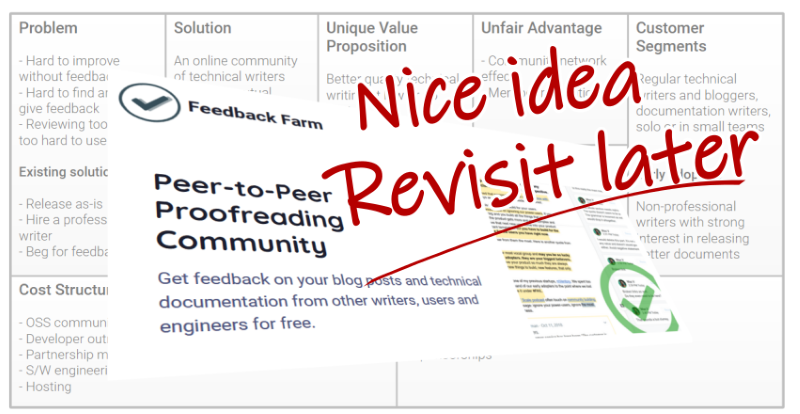
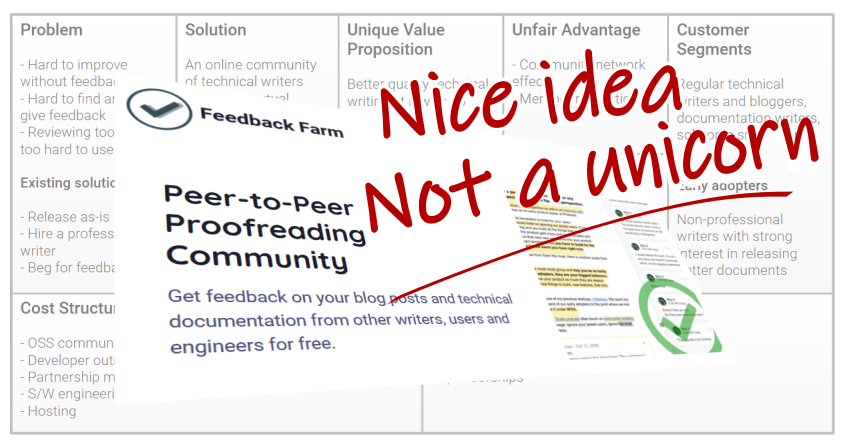
FF validation edits.

diff --git a/anatomy-of-failed-validation/readme.md b/anatomy-of-failed-validation/readme.md
@@ -3,7 +3,7 @@
 
 *There is plenty of good advice in books and on the Internet about how to validate an idea. The authors may convincingly tell you what to do, but skip the execution part as if it's not important. This post is a step-by-step walk through an idea validation process I did recently.*
 
-I got this idea about a proofreading community to help technical writers release better posts by giving each other feedback after I started posting on [Dev.To](https://dev.to/rimutaka). Better posts, more reactions, more readers, everyone wins, right?
+I started writing on [Dev.To](https://dev.to/rimutaka) only two months ago. Call me a beginner. One of the main challenges for me is finding someone to proofread my posts before I publish them. I want to know if the posts are interesting and easy to read and what can be improved. This is how I got this idea about a proofreading community where we would review each other's posts and exchange  feedback. Better posts, happier readers, more reactions, right?
 
 Maybe not so!
 
@@ -11,7 +11,7 @@ Most ideas sound good on the face of it. You need to look much deeper to know if
 
 My idea validation tool of choice is [Lean Canvas](https://leanstack.com). Ash Maurya, the Godfather of Idea Validation came up with that simple, but very powerful framework to make us think about ideas as businesses before we invest any time or money into building a product.
 
-This is what my idea looked like in Lean Canvas format:
+This is what my idea looks like in Lean Canvas format:
 
 ![lean canvas](lean-stack-screen.png)
 
@@ -23,7 +23,7 @@ There are other ways to validate an idea. The most expensive one is to go and bu
 
 ## Why doesn't it exist?
 
-> If there is StackOverflow and Quora where we help each other solve problems, why isn't there a community where we help each other release better posts and documentation?
+> If there are StackOverflow and Quora communities where we help each other solve problems, why isn't there a community where we help each other release better posts and documentation?
 
 If there is an unmet need there must be a reason why it is unmet.
 
@@ -35,8 +35,9 @@ Building a community somewhat similar to Stack Overflow is not technically chall
 
 ![quora kibin](quora-kibin.png)
 
-The description of the service in that post sounds exactly like my idea. Surprisingly, [kibin.com](http://kibin.com) is a very different type of proofreading service with no community aspect. Travis Biziorek, the founder of kibin.com kindly replied to my cold email with a detailed explanation about why that model didn't work out. In short, they could not monetize it.
-> If kibin.com couldn't monetize it, why would I succeed?
+The description of the service in that post sounds exactly like my idea. Surprisingly, [kibin.com](http://kibin.com) is a very different type of proofreading service today, with no community aspect. Travis Biziorek, the founder of kibin.com was very kind to reply to my cold email with a detailed explanation about why that model didn't work out. In short, they could not monetize it.
+
+> If kibin.com couldn't monetize it, why would I?
 
 10 years is a long time in the life of the Internet. If it didn't work for Travis and his team back in 2011 it *may* work just fine in 2020.
 
@@ -57,11 +58,13 @@ You can download the entire document from Google Docs: https://docs.google.com/p
 
 ## Red flags and self-deception
 
-Validation is not about proving that something will work. You can only prove that by "doing it". It is easier to [invert our model](https://fs.blog/2013/10/inversion/) to try to falsify the assumptions it is based on. The inversion won't guarantee project success, but it will save us from a predictable failure.
+Idea validation is not about proving the idea itself, but the assumptions we make around it. Proving something to be true is actually quite hard. It is easier to [invert our model](https://fs.blog/2013/10/inversion/) to try to falsify the assumptions it is based on. The inversion won't guarantee project success, but it will save us from a predictable failure.
 
-Some red flags popped up as soon as I started writing the pitch deck. We tend to dismiss those warning signs that something's off as minor issues. After all, we want the idea to succeed, so we kind of ignore them, until the reality comes back to bite us. Let's not make that mistake ever again.
+> Look out for what can go wrong.
 
-> Catalogue all issues, risks, and uncertainties
+Some red flags popped up as soon as I started writing the pitch deck. We tend to dismiss those early warning signs that something's off as minor issues. After all, we want the project to succeed, so we ignore or downplay them, until the reality comes back to bite us. Let's not make that mistake ever again.
+
+> Catalogue all issues, risks, and uncertainties.
 
 You'll find a few boxes like this one in my deck. I expanded and summarized them in a separate slide at the end of the presentation.
 
@@ -71,29 +74,34 @@ You'll find a few boxes like this one in my deck. I expanded and summarized them
 
 Most of your friends want you to succeed, so they will just say, yeah, it's a great idea and change the subject. Deep down, they neither understand nor care about your new idea. Those are not the responses I take seriously.
 
-It takes a lifetime to build a network of trusted advisors or even people capable of giving advice. In situations like this, they can be worth their weight in gold by pointing out the blind spots.
+Finding someone qualified to give you feedback isn't always easy. It takes a lifetime to build a network of trusted advisors or even people capable of giving advice. In situations like this, they can be worth their weight in gold by pointing out the blind spots.
 
 > Is it safe to share my idea in such details with my wider network? What if someone steals it?
 
-Ideas are dime a dozen. If someone steals my idea, then [it wasn't a good idea for me to work on](https://www.jimcollins.com/concepts/the-hedgehog-concept.html) (someone else would beat me to it anyway). Primed with that thinking I sent 21 cold emails with the pitch deck to people outside of my immediate network. 3 replied. 1 gave me a very detailed analysis of some of the flaws in my plan.
+Ideas are dime a dozen. If someone steals my idea, then [it wasn't a good idea for me to work on](https://www.jimcollins.com/concepts/the-hedgehog-concept.html) and someone else would beat me to it anyway. Primed with that thinking I sent 21 cold emails with the pitch deck to people outside of my immediate network. 3 replied. 1 gave me a very detailed analysis of some of the flaws in my plan.
 
 ![deck response](desk-response.png)
+
+I love feedback like that. It is much more valuable than someone saying, yes, great idea, go for it. There is a caveat to it, though.
 
 > Listen to all feedback carefully, but draw your own conclusions.
 
 ## Let the mob tear it apart
 
-Talking to potential partners and customers can't be done over a pitch deck. I had to come up with a name for the project, register the domain name, and set up a landing page. I called it [**Feedback Farm**](https://feedback.farm). It may be not the best of names, but is better than no name.
+Talking to potential partners and customers can't be done over a pitch deck. They need at least something resembling a product.
+Registering a domain name and setting up a landing page may just enough for that.
+
+My landing page went under https://feedback.farm. Check it out.
 
 Reddit, ProductHunt, LinkedIn and Slack groups are the quickest way to gage the response from your target audience. The feedback there can be brutal, but some of it is very good. Ignore the brutes and listen to those who put some thought into it.
 
 ![online feedback](mob-response.png)
 
-Expect your posts to be removed, your account blocked and IP blacklisted if you don't have a good standing in that community. Check out this [excellent Product Hunt interview](https://open.spotify.com/episode/7lnR9bNr0WZYRH3pPQqabS) with Josh Howarth from [Exploding Topics](https://explodingtopics.com/) on how makers can use online communities to validate and launch their new products.
+Expect your posts to be removed, your account blocked and IP blacklisted for self-promotion if you don't have a good standing in that community. Check out this [excellent interview](https://open.spotify.com/episode/7lnR9bNr0WZYRH3pPQqabS) with Josh Howarth from [Exploding Topics](https://explodingtopics.com/) on how makers can use online communities to validate and launch their new products.
 
 ## Silence is worse than a No
 
-You will get a lot of non-replies. That's worse than a No because it doesn't resolve the uncertainty one way or the other. Did they ignore you because your idea is not worth replying or was there some other reason? Here is my "guess-list".
+You will get a lot of non-replies. That's worse than a No because they don't resolve the uncertainty one way or the other. Did they ignore you because your idea was so bad it didn't warrant a reply or was your email not worded right? Here is my "guess-list":
 
 * Confusing message
 * Didn't ask the right questions
@@ -109,26 +117,29 @@ You will get a lot of non-replies. That's worse than a No because it doesn't res
 
 Add any number of other reasons to it, but you are still none the wiser.
 
-> Non-replies is a predictor of failure - whatever the reason is, you failed to generate interest.
+> Non-replies is a predictor of failure - whatever the reason was, you failed to generate interest.
 
 ## The weakest link
 
-Putting the feedback aside, what is the weakest list in my chain of assumptions? Pick one.
+Putting the feedback aside, what is the weakest link in my chain of assumptions? Pick one.
 
-> Let's assume the problem is real, there is some demand and it is technically feasible. How am I going to reach and acquire users?
+> Let's assume the problem is real, there is some demand and the solution is technically feasible. How am I going to reach and acquire users?
 
 ![weak link](weak-link.png)
 
-My weakest link was in "*Channels*". I would not be able to reach such a diverse and dispersed audience like bloggers and technical writers without relying on channel partners.
+My weakest link was in "*Channels*". I would not be able to reach such a diverse and dispersed audience as bloggers and technical writers without relying on channel partners.
 
 I set myself a deadline of 1 week to acquire at least one channel partner to help me reach my target audience. 10 days later I only had 2 "maybe". 
 
 ## To build or not to build
 
-> Unless the validation comes back overwhelmingly positive and you see strong upside in investing your time and effort into the product, step back for a moment. Let the emotions cool down. Think of the [opportunity cost](https://seths.blog/2019/01/opportunity-costs-just-went-up/) and [ignore the effort you put into your idea](https://freakonomics.com/2014/01/21/meditating-on-those-sunk-costs/).
+> Unless the validation comes back overwhelmingly positive and you see a strong upside in investing your time and money into the product, step back for a moment. Let the emotions cool down. Think of the [opportunity cost](https://seths.blog/2019/01/opportunity-costs-just-went-up/) and [ignore the effort you put into your idea](https://freakonomics.com/2014/01/21/meditating-on-those-sunk-costs/).
 
-My validation didn't return a clear winner. It could be because the idea is bad or because I didn't execute it well, or both.
-I may still go ahead with [Feedback Farm](https://feedback.farm) as a side project and make a browser plugin for easy proofreading of blog posts, but that would be just to "*scratch my own itch*". 
+The big question to answer to yourself is ...
+
+> Is it worth my time?
+
+My validation didn't return a clear winner. It could be because the idea was bad or because I didn't execute it well, or both. I may still continue working on [Feedback Farm](https://feedback.farm) as a less ambitious side project, but that will be to "*scratch my own itch*". 
 
 ![feedbak-farm](ff-finish.png)
 
